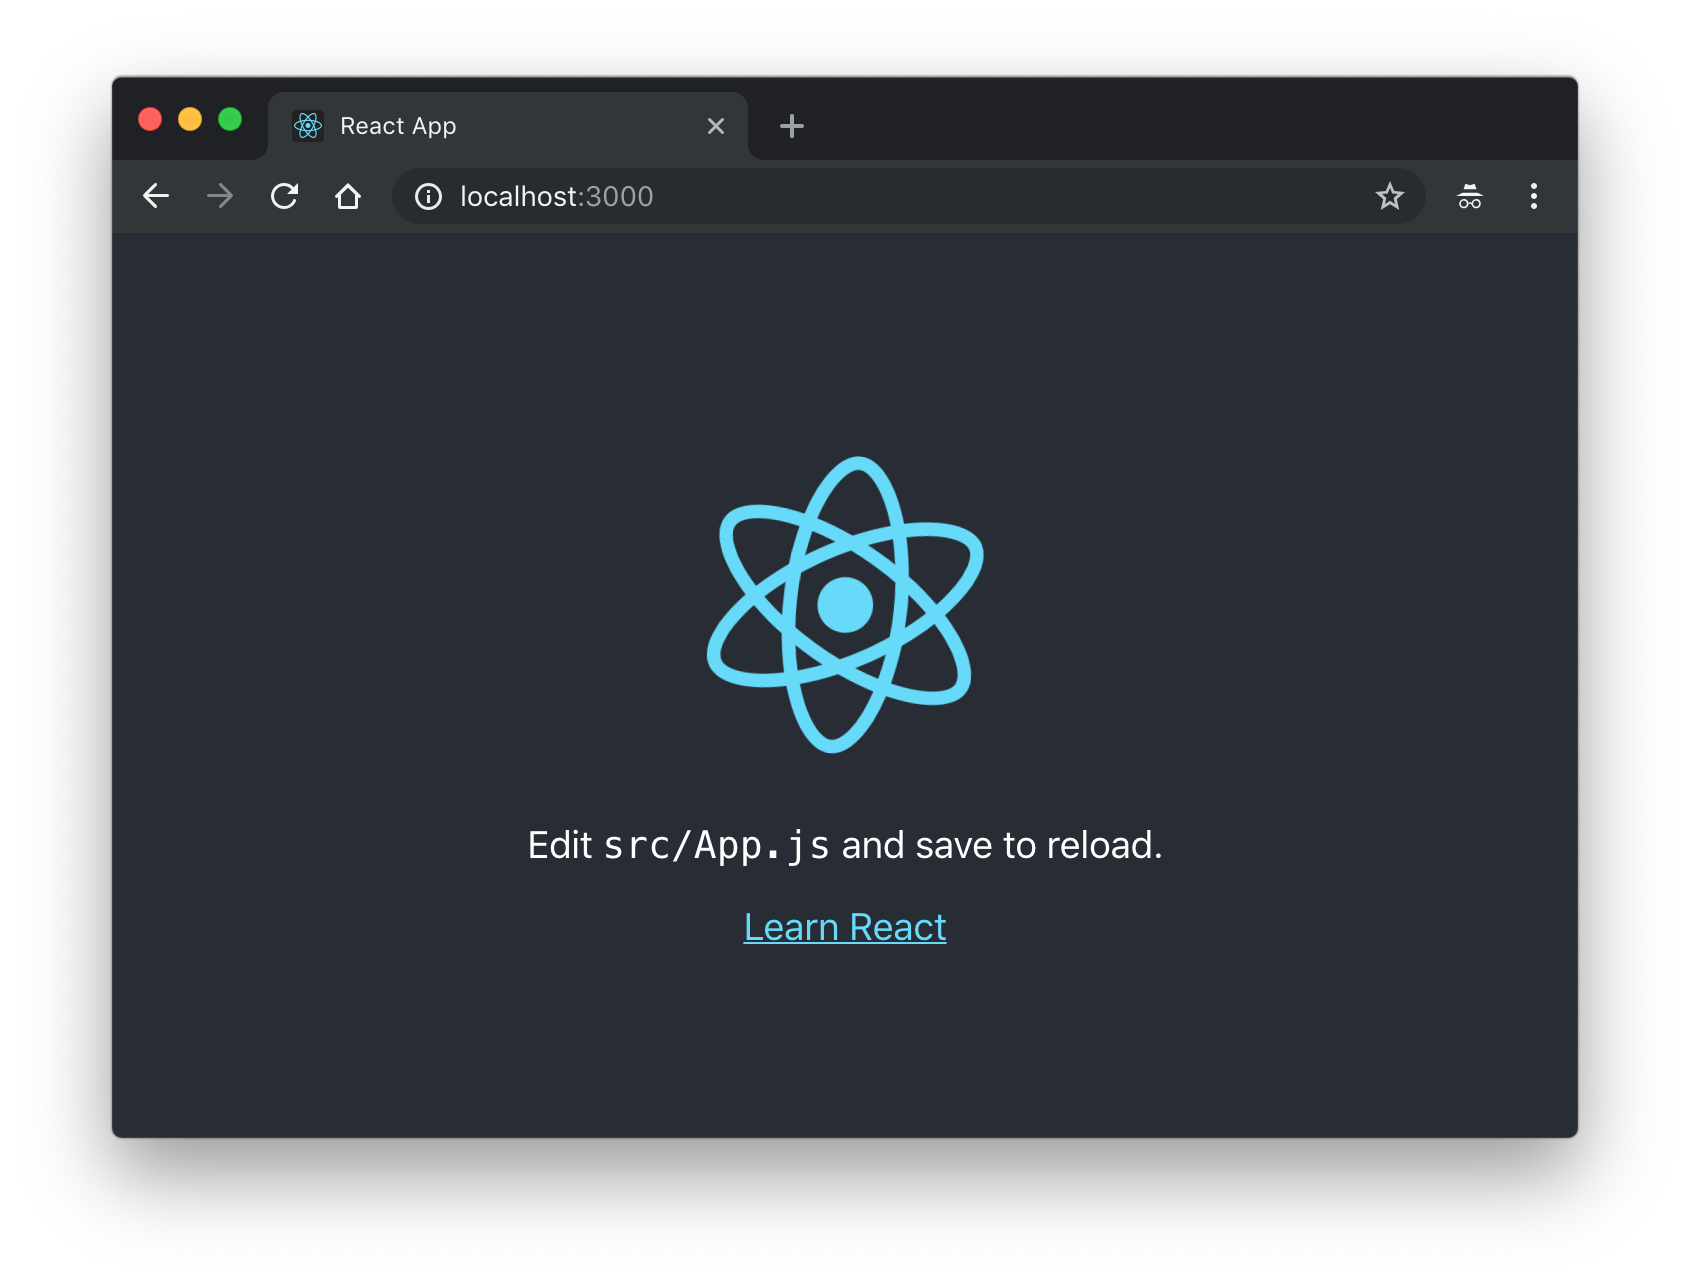
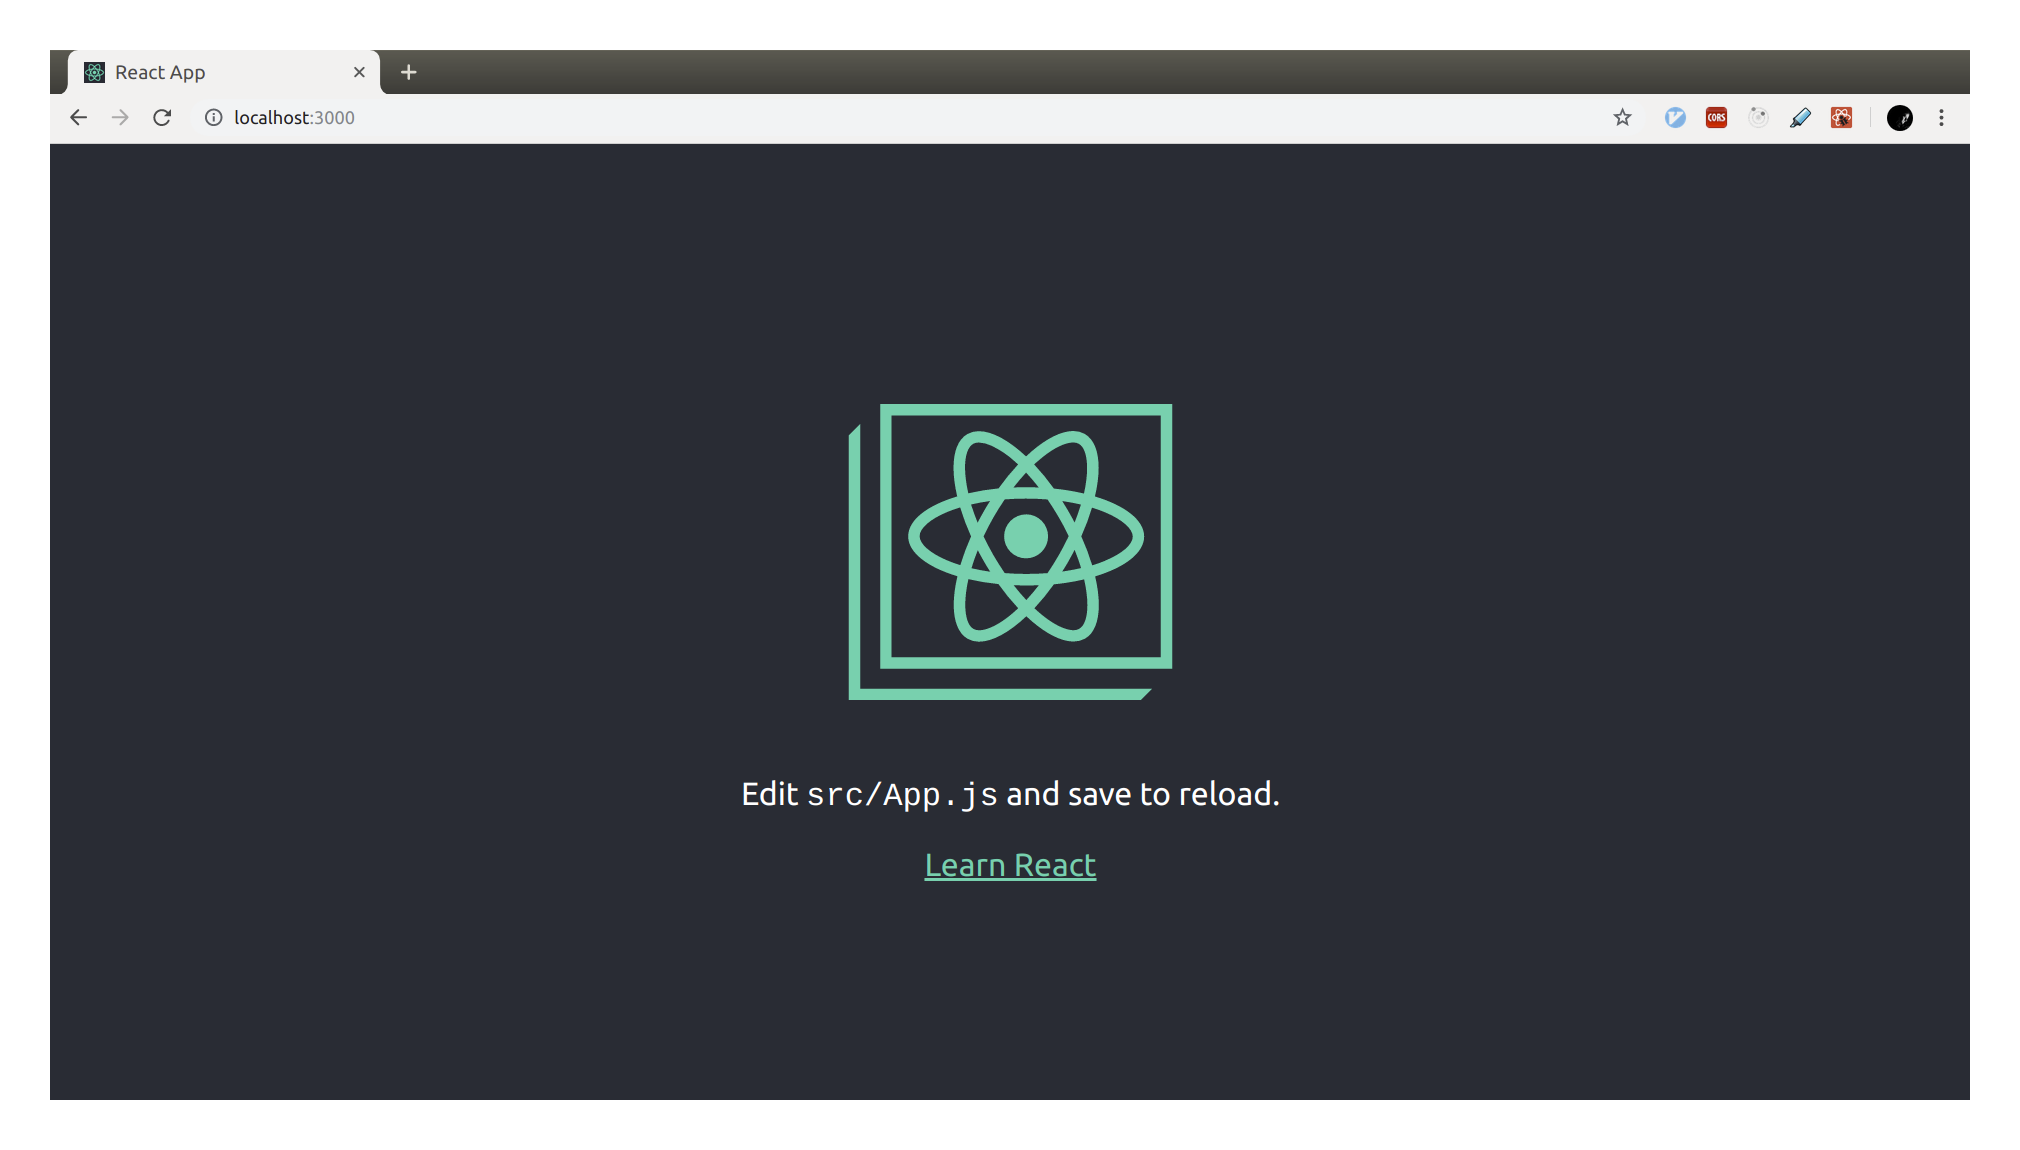
Update exercise 1 (#3)
* Update the image for the React dev tools.
Minor update in text.

* Update images

* Minor fix

Changed region(s): [[0.0, 0.0304, 0.9846, 0.9739], [0.4, 0.3348, 0.5846, 0.6087], [0.3077, 0.6391, 0.6769, 0.7913]]

diff --git a/exercise-1/README.md b/exercise-1/README.md
@@ -194,15 +194,17 @@ There are some very useful Chrome extensions when working with React. Having the
 
 > [Download here](https://chrome.google.com/webstore/detail/react-developer-tools/fmkadmapgofadopljbjfkapdkoienihi?hl=en)
 
-This is like any browser's _Elements_ tab, but for React elements.
+This is like any browser's _Elements_ tab, but for React elements. It essentially adds two new tabs, _Components_ and _Profiler_.
 
-![](../images/react-devtools.png)
+![](../images/react-dev-tools.png)
 
 **Useful things to note:**
 
 :book: The right-hand panel (blue) lists a component's _props_. We haven't discussed this yet, but props are basically the values passed in to a component from it's parent component. This will be useful later.  
-:book: The target icon (green) enables you to point your cursor on an element on the screen which'll expand down to, and select, that React component in the tree.  
-:book: Note that this DOM-tree lists the React nodes as they are named in your source code (pink). This is extremely useful for debugging.
+:book: The arrow icon (green) enables you to point your cursor on an element on the screen which'll expand down to, and select, that React component in the tree.  
+:book: Note that this tree lists the React nodes as they are named in your source code (pink). This is extremely useful for debugging.
+:exclamation: It may happen that the component list dissapears when the hot-reloading occurs. If so, refresh the page and it will appear again.
+:exclamation: If only the *App* component is visible, open the addon options (the cog icon, yellow) and turn off the filtering in the *Components* tab.
 
 ### Redux Dev Tools
 
